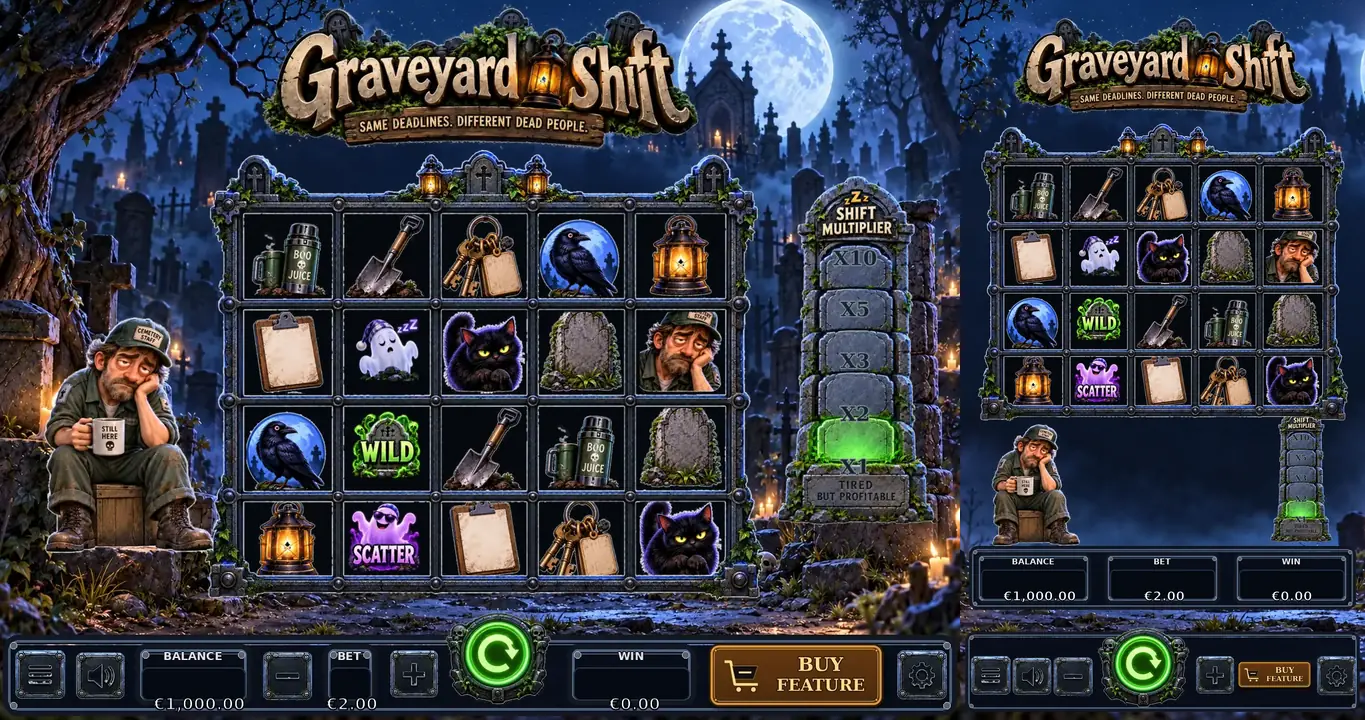
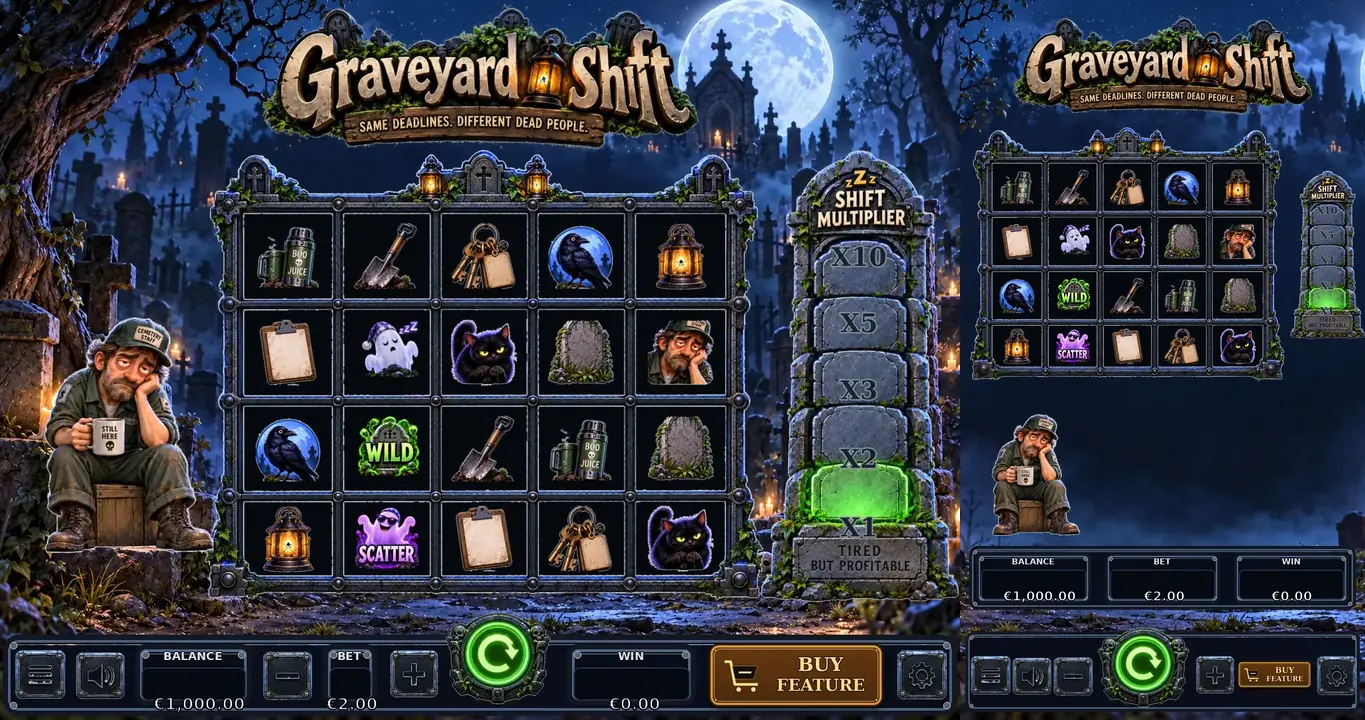
fix: align shift meter and normalize symbols

Changed region(s): [[0.1538, 0.1528, 1.0, 0.8556]]

diff --git a/apps/graveyard-shift/src/components/GraveyardScene.svelte b/apps/graveyard-shift/src/components/GraveyardScene.svelte
@@ -64,6 +64,36 @@
 		wild: 'wildWin',
 		scatter: 'scatterWin',
 	};
+	// The source canvases are identical, but their painted silhouettes are not.
+	// Normalize the visible artwork so every symbol clears the smallest reel opening.
+	const symbolScaleMap: Record<SymbolKey, number> = {
+		thermos: 0.84,
+		shovel: 0.8,
+		keys: 0.8,
+		raven: 0.81,
+		lantern: 0.81,
+		checklist: 0.8,
+		sleepyGhost: 0.9,
+		blackCat: 0.8,
+		tombstone: 0.8,
+		caretakerSymbol: 0.8,
+		wild: 0.9,
+		scatter: 0.9,
+	};
+	const symbolOpticalOffsetMap: Record<SymbolKey, { x: number; y: number }> = {
+		thermos: { x: -2, y: -2 },
+		shovel: { x: 0, y: 0 },
+		keys: { x: 1, y: 0 },
+		raven: { x: 1, y: -1 },
+		lantern: { x: 0, y: 1 },
+		checklist: { x: -1, y: 0 },
+		sleepyGhost: { x: 4, y: -2 },
+		blackCat: { x: 0, y: 0 },
+		tombstone: { x: 0, y: 1 },
+		caretakerSymbol: { x: 0, y: 1 },
+		wild: { x: 3, y: 1 },
+		scatter: { x: 3, y: 1 },
+	};
 
 	let visibleRows = $state<SymbolGrid>(initialRows.map((row) => [...row]));
 	let spinPhase = $state<SpinPhase>('idle');
@@ -159,6 +189,15 @@
 		const maskHeight = 622;
 		return (maskTop + ((baseY + offset - maskTop) % maskHeight)) * boardScale.y;
 	};
+	const getSymbolSize = (symbolKey: SymbolKey) =>
+		scene.board.symbolSize * symbolScaleMap[symbolKey];
+	const getSymbolX = (symbolKey: SymbolKey, columnIndex: number) =>
+		frameColumns[columnIndex] * boardScale.x + symbolOpticalOffsetMap[symbolKey].x;
+	const getOpticallyCenteredSymbolY = (
+		symbolKey: SymbolKey,
+		rowIndex: number,
+		columnIndex: number,
+	) => getSymbolY(rowIndex, columnIndex) + symbolOpticalOffsetMap[symbolKey].y;
 
 	onDestroy(() => {
 		if (frameHandle !== undefined) cancelAnimationFrame(frameHandle);
@@ -177,9 +216,9 @@
 					height: 1920,
 					backgroundKey: 'backgroundMobile',
 					logo: { x: 540, y: 176, width: 900, height: 300 },
-					caretaker: { x: 205, y: 1292, width: 330, height: 330 },
-					multiplier: { x: 910, y: 1265, width: 180, height: 418 },
-					board: { x: 40, y: 330, width: 1000, height: 800, symbolSize: 152 },
+					caretaker: { x: 205, y: 1265, width: 330, height: 330 },
+					multiplier: { x: 980, y: 680, width: 200, height: 450 },
+					board: { x: 20, y: 340, width: 850, height: 680, symbolSize: 126 },
 					hud: { x: 0, y: 1440, width: 1080, height: 480 },
 					spin: { x: 510, y: 1791, size: 252 },
 					values: [
@@ -195,7 +234,7 @@
 					backgroundKey: 'backgroundDesktop',
 					logo: { x: 720, y: 117, width: 740, height: 247 },
 					caretaker: { x: 197, y: 651, width: 360, height: 360 },
-					multiplier: { x: 1284, y: 527, width: 258, height: 599 },
+					multiplier: { x: 1290, y: 565, width: 300, height: 680 },
 					board: { x: 300, y: 225, width: 850, height: 680, symbolSize: 132 },
 					hud: { x: 0, y: 900, width: 1440, height: 180 },
 					spin: { x: 728, y: 990, size: 170 },
@@ -281,11 +320,11 @@
 				{#if isWinningPosition(rowIndex, columnIndex)}
 					<SpriteSheet
 						key={winAssetKeyMap[symbolKey]}
-						x={frameColumns[columnIndex] * boardScale.x}
-						y={getSymbolY(rowIndex, columnIndex)}
+						x={getSymbolX(symbolKey, columnIndex)}
+						y={getOpticallyCenteredSymbolY(symbolKey, rowIndex, columnIndex)}
 						anchor={0.5}
-						width={scene.board.symbolSize}
-						height={scene.board.symbolSize}
+						width={getSymbolSize(symbolKey)}
+						height={getSymbolSize(symbolKey)}
 						animationSpeed={10 / 60}
 						loop
 						play
@@ -293,11 +332,11 @@
 				{:else}
 					<Sprite
 						key={symbolKey}
-						x={frameColumns[columnIndex] * boardScale.x}
-						y={getSymbolY(rowIndex, columnIndex)}
+						x={getSymbolX(symbolKey, columnIndex)}
+						y={getOpticallyCenteredSymbolY(symbolKey, rowIndex, columnIndex)}
 						anchor={0.5}
-						width={scene.board.symbolSize}
-						height={scene.board.symbolSize}
+						width={getSymbolSize(symbolKey)}
+						height={getSymbolSize(symbolKey)}
 						alpha={spinPhase === 'spinning' && activeReels[columnIndex] ? 0.72 : 1}
 					/>
 				{/if}
